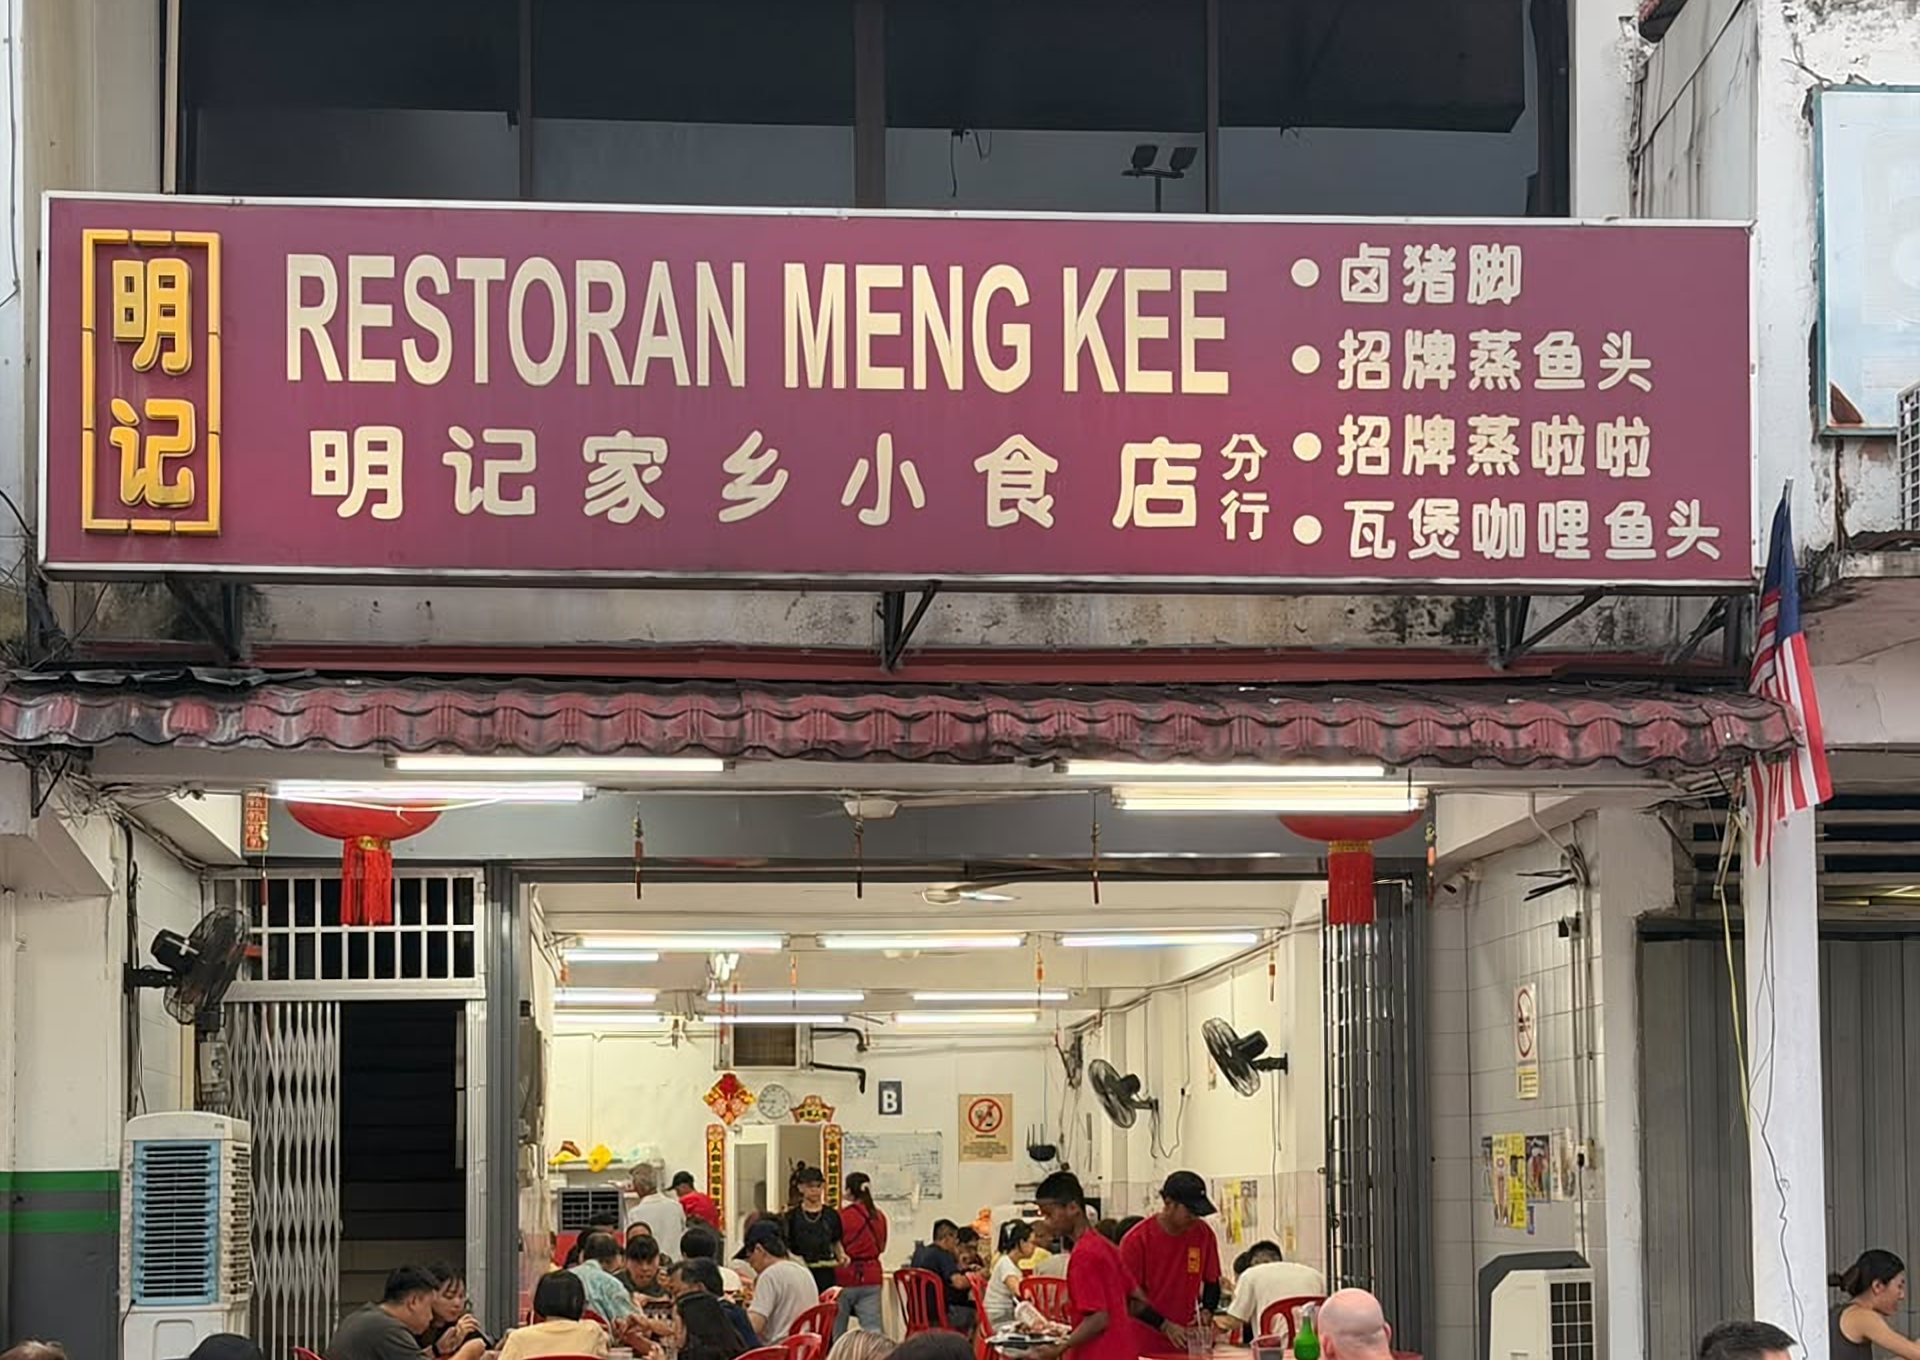
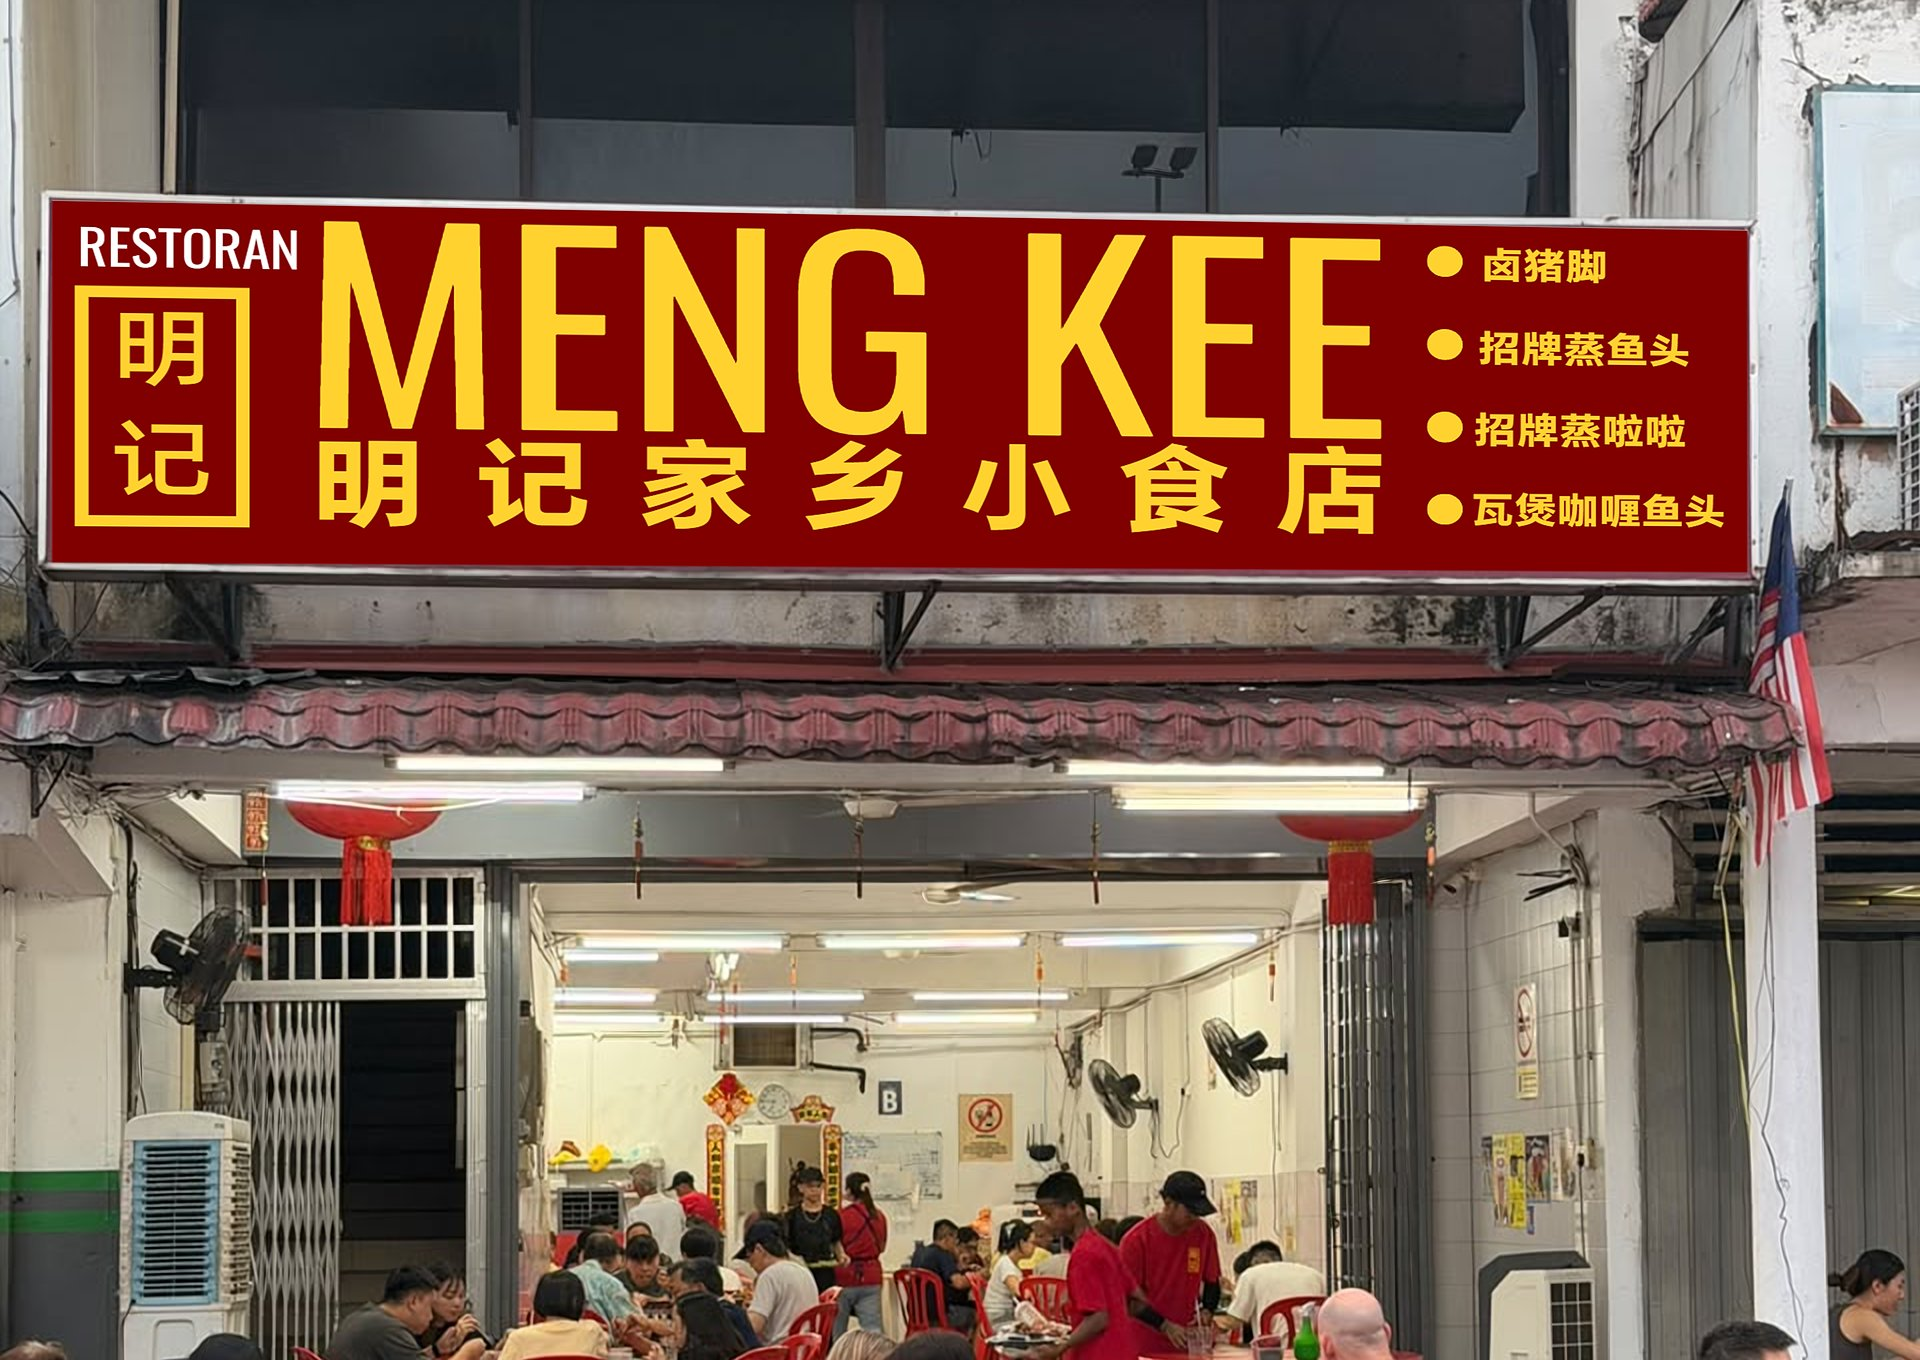
最远外送改回 15km（10–15km 运费 RM12，Google 驾驶路程）；首页背景招牌换成业主给的招牌设计图（按透视贴合原招牌位置）
Claude-Session: https://claude.ai/code/session_01F8eYZ7san8stv66tDzYDeg

Changed region(s): [[0.0, 0.1235, 0.9375, 0.4324]]

diff --git a/config.js b/config.js
@@ -381,10 +381,10 @@ window.SITE = {
       zones: [
         { label: "0–5km", labelEn: "0–5km", fee: 4, maxKm: 5 },
         { label: "5–10km", labelEn: "5–10km", fee: 8, maxKm: 10 },
-        { label: "10–15km", labelEn: "10–15km", fee: 12, maxKm: 15 },   // 现在最远只送 10km，这档暂时用不到（以后放宽距离再用）
+        { label: "10–15km", labelEn: "10–15km", fee: 12, maxKm: 15 },
       ],
       lastOrder: { weekday: ["14:30", "21:30"], weekend: ["14:00", "21:30"] },   // 2026-10-26 业主：外送最后接单（对应 hours 的午市/晚市）；之后到打烊不接外送
-      maxKm: 10,            // 2026-10-26 业主：Google 路线路程 10km 内才送
+      maxKm: 15,            // 2026-10-26 业主：Google 路线（驾驶）路程 15km 内才送（10–15km 运费 RM12）
       travelMode: "TWO_WHEELER",   // 2026-10-26 业主：距离全部用 Google 路线（Routes API）真实路程；摩托（TWO_WHEELER），算不到才用驾车
       autoDistance: true,   // 显示「📍 用我现在的位置自动算运费」按钮
       minOrder: 30,          // 外送最低消费，0 = 不限

diff --git a/CLAUDE.md b/CLAUDE.md
@@ -66,6 +66,8 @@
 - **外送距离改用 Google 路线真实路程（2026-10-26 业主：「不要直线×1.3，全部改用 Google Maps 驾车/摩托距离」）**：取代上面所有「直线 × roadFactor」的算法（`roadFactor`/`radiusKm`/`roadKm` 都拿掉了）。`computeRoutes()` 用 Maps JS 的 **Routes API `RouteMatrix.computeRouteMatrix`**，一次算「每间外送分店 → 送餐位置」，先用 `delivery.travelMode:"TWO_WHEELER"`（摩托），算不到才用 `DRIVING`；结果存 `delRoutes`（按位置 key），`geoKm()/routeOf()/nearestOutlet()/outletsByDist()/outletOptions` 全部用它。最远 `maxKm:10`（路程）。配送时间也改用 Google 路线时间：`ride:{wait:[5,10],slow:1.3}` → [时间+5, 时间×1.3+10] 分钟。**算不到路程（Google 没开 Routes API / 网络问题）就不能下外送单**（`routeFail`，重开购物车会再试一次），不会退回估算。讯息写「(离分店路程约 X km，Google 摩托/驾车路线)」；check.html 读这个 km 核对运费档，路程比直线还短 → ❌（被改过），比直线长太多 → ⚠。
   - ⚠ **业主要在 Google Cloud 启用「Routes API」，并把它加进 API key 的 API restrictions**——✅ 2026-10-26 业主已开（Routes API 加进 key 后共 4 个 API），沙箱用真 key 测过：摩托路线能算、Kinrara Ria → OKR (Scott Garden 对面) 8.3 km RM8、Subang → 16.5 km 被挡。没开时网站外送一律显示「暂时算不到外送路程」。计费：Route Matrix 每个「分店×客人」算 1 个 element（现在 3 间外送分店 = 每次定位 3 个），有每月免费额度，超出按 Google 价目；预算提醒照旧。旧的 Distance Matrix（legacy）新项目不能开，所以用 Routes API。
   - 没有 Google（没 key / 载不到）时地图会退回 Leaflet+OSM，但**外送算不到路程、不能下单**（自取不受影响）。
+- **最远外送改回 15km（2026-10-26 业主）**：`maxKm:15`（Google 驾驶/摩托路线路程），三档运费：0–5km RM4、5–10km RM8、10–15km RM12。
+- **首页背景招牌换成业主给的招牌设计图（2026-10-26）**：业主给了一张干净的招牌图（红底黄字 RESTORAN MENG KEE/明记家乡小食店/卤猪脚…），用 OpenCV `getPerspectiveTransform` 把它按照片里招牌的四个角（crop 座标 (26,100)(874,115)(874,286.5)(26,281.5) ×4）透视贴进 EDSR 放大后的店面照，再输出 hero.jpg/hero-m.jpg。原招牌字已被盖掉。
 - **外送最后接单 + 首页显示（2026-10-26 业主）**：首页状态改「门店营业中」，下面两行「🛵 外送时间 Last order 2:30pm 和 9:30pm（平日）」「…2pm 和 9:30pm（周末）」，读 `delivery.lastOrder:{weekday:[午,晚],weekend:[午,晚]}`（对应 hours 每一段）。`delOpenState()`：只有在某段营业开始到该段 last order 之间才能下外送单，过了显示「外送已过最后接单时间（Last order X）。下次外送：Y」并挡下单（`delClosedMsg`）。自取不受影响。
 - **SST（2026-10-17）**：`ordering.sstRate:0.06`。购物车：小计 − 优惠 + **SST 6%（按「小计 − 优惠」计，运费不收）** + 运费 = 合计；付款金额、WhatsApp 讯息都用含 SST 的合计（`waTotalLines()`）。菜单每道菜价钱下方小字「(不含SST)」。`sstRate:0` 则全部不显示。
 - **退款政策 & 隐私说明（2026-10-26，为申请付款网关）**：独立页面 `policy.html`（`#refund`、`#privacy`，`?lang=en` 英文；自己的 CSP；只读 config.js），内容全在 `config.js` 的 `policies`（`refund`/`privacy` 各有 `sections:[{h,hEn,p:[],pEn:[]}]`、`updated`、`legalName`）。规则：须先付款；厨房开始准备前可取消全额退款，之后不退；「改正订单问题」：错漏/品质问题 2 小时内 WhatsApp+照片 → 补送/部分/全额退款，送达（或取餐）超过 2 小时一概不受理（2026-10-26 业主加）；店家无法完成 → 全额退款或换菜；自取逾期不取（留到打烊）、地址电话填错、交通天气合理延误、口味不同不退；退款 7 个工作天内退回原付款方式；优惠不兑现金；订位不收订金。隐私按 PDPA 2010（收集什么/用途/与谁分享：WhatsApp、骑手、付款平台、OpenStreetMap/存在客人浏览器/保存多久/查阅更正删除权利）。首页页脚和购物车（「下单即表示您同意…」）有链接，新分页打开。**`legalName` 还没填**（公司正式名称 + SSM 号）。以后接后台/网关/Lalamove，隐私说明「与谁分享」要同步改。⚠ 复制给牛室时 policies 要按牛室规则重写（buffet 订位可能收订金）。
